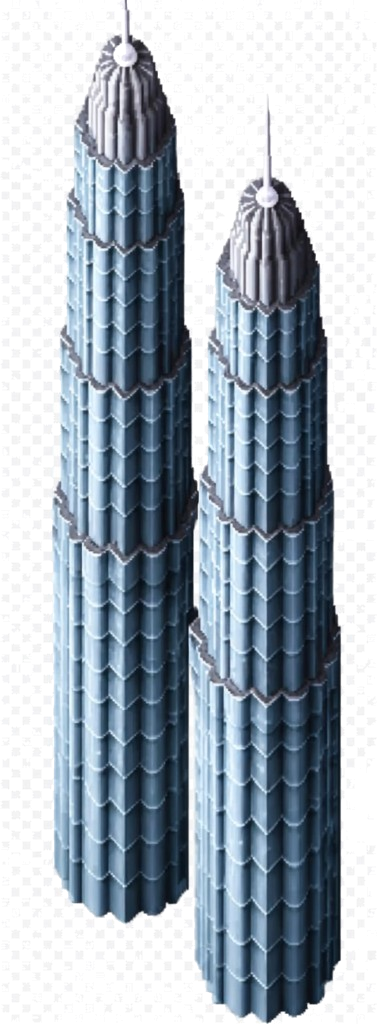
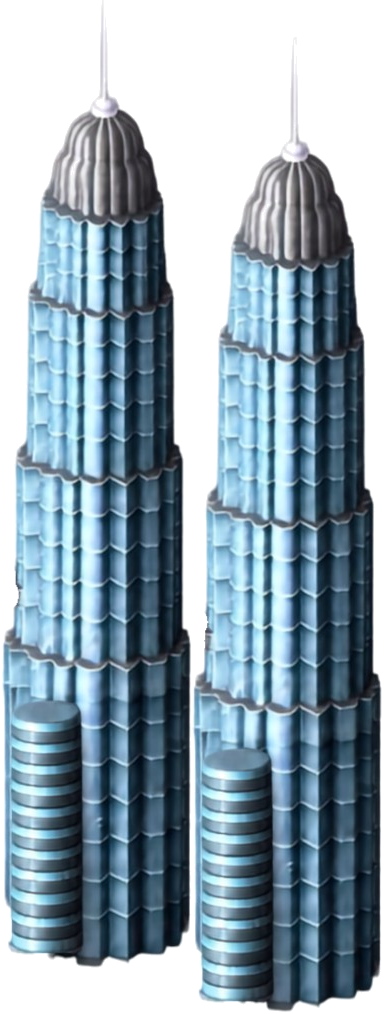
Update building assets and refine economy parameters in Millionaire City
- Replaced several building images with updated versions for improved visual quality.
- Adjusted dimensions for various buildings in economy.json to enhance gameplay balance.
- Updated UI hints in main.js to reflect changes from "grass" to "bush" for better clarity in gameplay mechanics.
- Enhanced rendering logic in renderer.js to incorporate new bush sprite for ground painting functionality.

diff --git a/millionaire-city/js/map/renderer.js b/millionaire-city/js/map/renderer.js
@@ -1,6 +1,8 @@
 import { spriteOrigin } from "./grid.js";
 import { FloatingRewards } from "./floatingRewards.js";
 
+const BUSH_SPRITE = "assets/ground/bush.png";
+
 /**
  * Canvas renderer: grass grid + buildings with Y-sort.
  */
@@ -36,50 +38,13 @@ export class Renderer {
     this.expansions = null;
     /** Show tile grid only while placing / moving. */
     this.showGrid = false;
-    this.grassPattern = null;
+    /** Flat base grass color. */
+    this.grassColor = "#7BA73B";
     /** @type {{ zx: number, zy: number } | null} */
     this.expandHover = null;
     this.floatingRewards = new FloatingRewards();
     this._resize();
     window.addEventListener("resize", () => this._resize());
-  }
-
-  /** Soft mottled grass (#7BA73B). */
-  _ensureGrassPattern() {
-    if (this.grassPattern) return this.grassPattern;
-    const size = 128;
-    const c = document.createElement("canvas");
-    c.width = size;
-    c.height = size;
-    const g = c.getContext("2d");
-    const img = g.createImageData(size, size);
-    const d = img.data;
-    // Base / light / dark around #7BA73B
-    const base = [123, 167, 59]; // #7BA73B
-    const light = [138, 182, 72]; // #8AB648
-    const dark = [108, 150, 48]; // #6C9630
-    for (let y = 0; y < size; y++) {
-      for (let x = 0; x < size; x++) {
-        // Layered value noise for soft lawn grain (not a hard checker)
-        const n1 =
-          Math.sin(x * 0.37 + y * 0.19) * 0.35 +
-          Math.sin(x * 0.11 - y * 0.29) * 0.25 +
-          Math.sin((x + y) * 0.08) * 0.2 +
-          Math.sin(x * 0.73) * Math.cos(y * 0.61) * 0.2;
-        const n2 = ((x * 374761393 + y * 668265263) >>> 0) % 1000 / 1000 - 0.5;
-        const t = Math.max(-1, Math.min(1, n1 + n2 * 0.35));
-        const src = t > 0 ? light : dark;
-        const a = Math.abs(t);
-        const i = (y * size + x) * 4;
-        d[i] = Math.round(base[0] + (src[0] - base[0]) * a);
-        d[i + 1] = Math.round(base[1] + (src[1] - base[1]) * a);
-        d[i + 2] = Math.round(base[2] + (src[2] - base[2]) * a);
-        d[i + 3] = 255;
-      }
-    }
-    g.putImageData(img, 0, 0);
-    this.grassPattern = this.ctx.createPattern(c, "repeat");
-    return this.grassPattern;
   }
 
   _resize() {
@@ -94,8 +59,6 @@ export class Renderer {
     this.ctx.setTransform(dpr, 0, 0, dpr, 0, 0);
     this.cssWidth = w;
     this.cssHeight = h;
-    // Canvas resize resets context; rebuild grass pattern next draw
-    this.grassPattern = null;
   }
 
   async preload(defs) {
@@ -104,6 +67,7 @@ export class Renderer {
       "assets/ui/icon_cash.png",
       "assets/ui/icon_gold.svg",
       "assets/ui/icon_diamond.svg",
+      BUSH_SPRITE,
     ];
     await Promise.all(
       urls.map(
@@ -173,8 +137,8 @@ export class Renderer {
     ctx.scale(z, z);
     ctx.translate(-mapW / 2 - this.camera.x, -mapH / 2 - this.camera.y);
 
-    // Base grass (suelo normal)
-    ctx.fillStyle = this._ensureGrassPattern() || "#7BA73B";
+    // Base grass (suelo liso)
+    ctx.fillStyle = this.grassColor;
     ctx.fillRect(0, 0, mapW, mapH);
 
     // River (right edge), over grass, under roads
@@ -219,28 +183,26 @@ export class Renderer {
       }
     }
 
-    // Grass tool: above base grass (+ roads), strictly under buildings
+    // Grass / bush tool: above base grass (+ roads), strictly under buildings
     if (this.ground) {
+      const bush = this.images.get(BUSH_SPRITE);
       for (let ty = 0; ty < rows; ty++) {
         for (let tx = 0; tx < cols; tx++) {
-          const color = this.ground.colorAt(tx, ty);
-          if (!color) continue;
+          if (!this.ground.has(tx, ty)) continue;
           if (this.river?.has(tx, ty)) continue;
           // Keep roads visible on the same tile
           if (this.roads?.has(tx, ty)) continue;
-          ctx.fillStyle = color;
-          ctx.fillRect(tx * tile, ty * tile, tile, tile);
+          this._drawBush(ctx, bush, tx, ty, tile, 1);
         }
       }
     }
 
     // Ghost placement (previews under building sprites when applicable)
     if (this.hover && this.hover.ground) {
-      const { tx, ty, valid, color } = this.hover;
-      if (valid && color) {
+      const { tx, ty, valid } = this.hover;
+      if (valid) {
         ctx.globalAlpha = 0.55;
-        ctx.fillStyle = color;
-        ctx.fillRect(tx * tile, ty * tile, tile, tile);
+        this._drawBush(ctx, this.images.get(BUSH_SPRITE), tx, ty, tile, 1);
         ctx.globalAlpha = 1;
       } else {
         ctx.fillStyle = "rgba(224,122,95,0.4)";
@@ -349,6 +311,33 @@ export class Renderer {
     ctx.setLineDash([]);
     ctx.lineDashOffset = 0;
     ctx.globalAlpha = 1;
+  }
+
+  /**
+   * Round bush sprite for the grass/bush paint tool.
+   * @param {CanvasRenderingContext2D} ctx
+   * @param {HTMLImageElement|undefined} img
+   * @param {number} tx
+   * @param {number} ty
+   * @param {number} tile
+   * @param {number} [alpha]
+   */
+  _drawBush(ctx, img, tx, ty, tile, alpha = 1) {
+    if (!img) {
+      ctx.globalAlpha = alpha;
+      ctx.fillStyle = "#6B8E23";
+      ctx.fillRect(tx * tile + 2, ty * tile + 2, tile - 4, tile - 4);
+      ctx.globalAlpha = 1;
+      return;
+    }
+    const dw = tile * 1.2;
+    const dh = (img.height / Math.max(1, img.width)) * dw;
+    const dx = tx * tile + (tile - dw) / 2;
+    const dy = ty * tile + tile - dh + 2;
+    const prev = ctx.globalAlpha;
+    ctx.globalAlpha = prev * alpha;
+    ctx.drawImage(img, dx, dy, dw, dh);
+    ctx.globalAlpha = prev;
   }
 
   /** Locked parcels (fog) + adjacent For Sale signs. */

diff --git a/millionaire-city/js/main.js b/millionaire-city/js/main.js
@@ -128,7 +128,7 @@ function setMode(mode) {
   } else if (mode === "move") {
     setHint("Clic en un edificio o decoración para moverlo (cuesta 1/10 del precio). Te pedirá confirmación.");
   } else if (mode === "erase") {
-    setHint("Clic en carretera, edificio o hierba para borrarlo (reembolso 50% en edificios/carreteras). Te pedirá confirmación.");
+    setHint("Clic en carretera, edificio o arbusto para borrarlo (reembolso 50% en edificios/carreteras). Te pedirá confirmación.");
   } else if (mode === "road") {
     setHint(
       state.roadKind === "zebra"
@@ -136,7 +136,7 @@ function setMode(mode) {
         : "Pinta carreteras: recta por defecto; curva/T/cruce según vecinos. Clic vacío cancela."
     );
   } else if (mode === "ground") {
-    setHint("Pinta hierba bajo edificios (cubre el verde del mapa). Arrastra para pintar.");
+    setHint("Pinta arbustos bajo edificios. Arrastra para pintar.");
   } else if (state.selected) {
     setHint(`Colocando: ${state.selected.name}. Clic en el mapa.`);
   } else {
@@ -738,7 +738,7 @@ async function main() {
       changed = true;
     }
     if (changed) {
-      setHint("Hierba colocada.");
+      setHint("Arbusto colocado.");
     }
   }
 
@@ -785,7 +785,7 @@ async function main() {
     }
     if (ground.has(tx, ty)) {
       ground.paint(tx, ty, false);
-      setHint("Hierba borrada.");
+      setHint("Arbusto borrado.");
       return true;
     }
     return false;
@@ -813,7 +813,7 @@ async function main() {
       return { name: hit.def.name, detailHtml };
     }
     if (ground.has(tx, ty)) {
-      return { name: "Hierba", detailHtml: "Sin coste (gratis)" };
+      return { name: "Arbusto", detailHtml: "Sin coste (gratis)" };
     }
     return null;
   }
@@ -1197,8 +1197,15 @@ async function main() {
         renderer.radiusFocus = null;
       }
       if (hit && (hit.def.category === "house" || hit.def.category === "commercial" || hit.def.category === "wonder")) {
-        const anchor = renderer.buildingAnchorScreen(hit);
-        tooltip.show(hit, { left: anchor.x, top: anchor.y });
+        // Construcción rápida: solo al clic, no al pasar el ratón
+        if (isConstructing(hit)) {
+          if (!(tooltip.building === hit && !tooltip.root.hidden) && !tooltip.pointerInside) {
+            tooltip.scheduleHide(80);
+          }
+        } else {
+          const anchor = renderer.buildingAnchorScreen(hit);
+          tooltip.show(hit, { left: anchor.x, top: anchor.y });
+        }
       } else if (renderer.expandHover) {
         const cost = expansions.costFor(renderer.expandHover.zx, renderer.expandHover.zy);
         setHint(`Expansión en venta: $${(cost || 0).toLocaleString("en-US")}. Toca para comprar.`);

diff --git a/millionaire-city/js/ui/shop.js b/millionaire-city/js/ui/shop.js
@@ -164,9 +164,9 @@ export class ShopUI {
       grassBtn.type = "button";
       grassBtn.className = "card" + (this.tool === "grass" ? " selected" : "");
       grassBtn.innerHTML = `
-        <div class="ph ground-swatch" style="background:#6B8E23" aria-hidden="true"></div>
+        <img src="assets/ground/bush.png" alt="" />
         <div class="meta">
-          <div class="name">Hierba</div>
+          <div class="name">Arbusto</div>
           <div class="sub">Gratis · bajo edificios</div>
         </div>
       `;
@@ -182,7 +182,7 @@ export class ShopUI {
       const help = document.createElement("p");
       help.style.cssText = "color:#1a5f96;font-size:0.8rem;padding:0.5rem;margin:0;font-weight:600";
       help.innerHTML =
-        "Pinta arrastrando. <strong>Hierba</strong> se puede poner debajo de edificios ya construidos para tapar el suelo verde. Recta por defecto en carreteras; curva / T / cruce según vecinos. <strong>Borrar</strong> quita carretera, edificio o hierba. Clic vacío o Esc cancela.";
+        "Pinta arrastrando. <strong>Arbusto</strong> se puede poner debajo de edificios ya construidos. Recta por defecto en carreteras; curva / T / cruce según vecinos. <strong>Borrar</strong> quita carretera, edificio o arbusto. Clic vacío o Esc cancela.";
       list.appendChild(help);
       return;
     }
